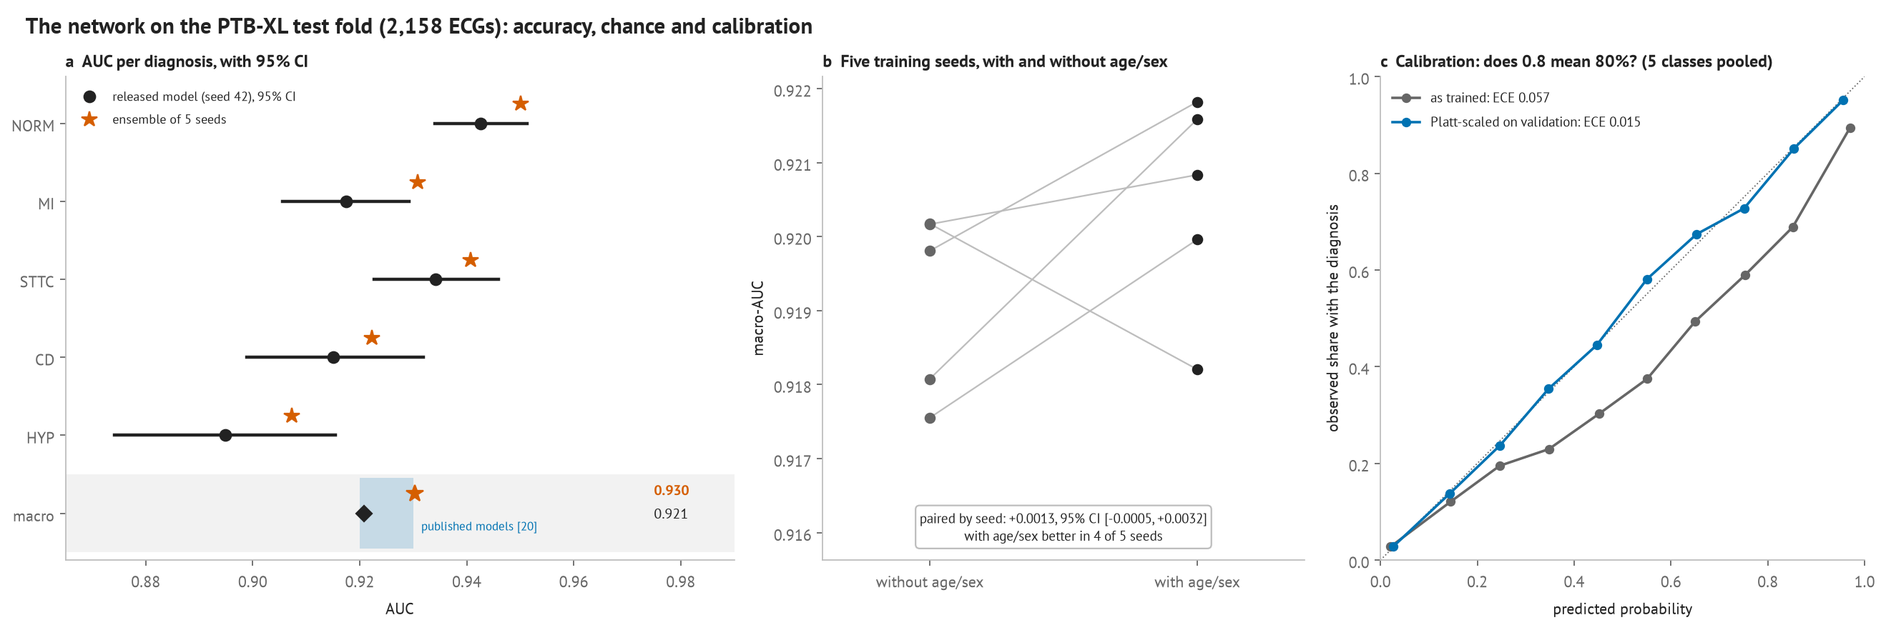
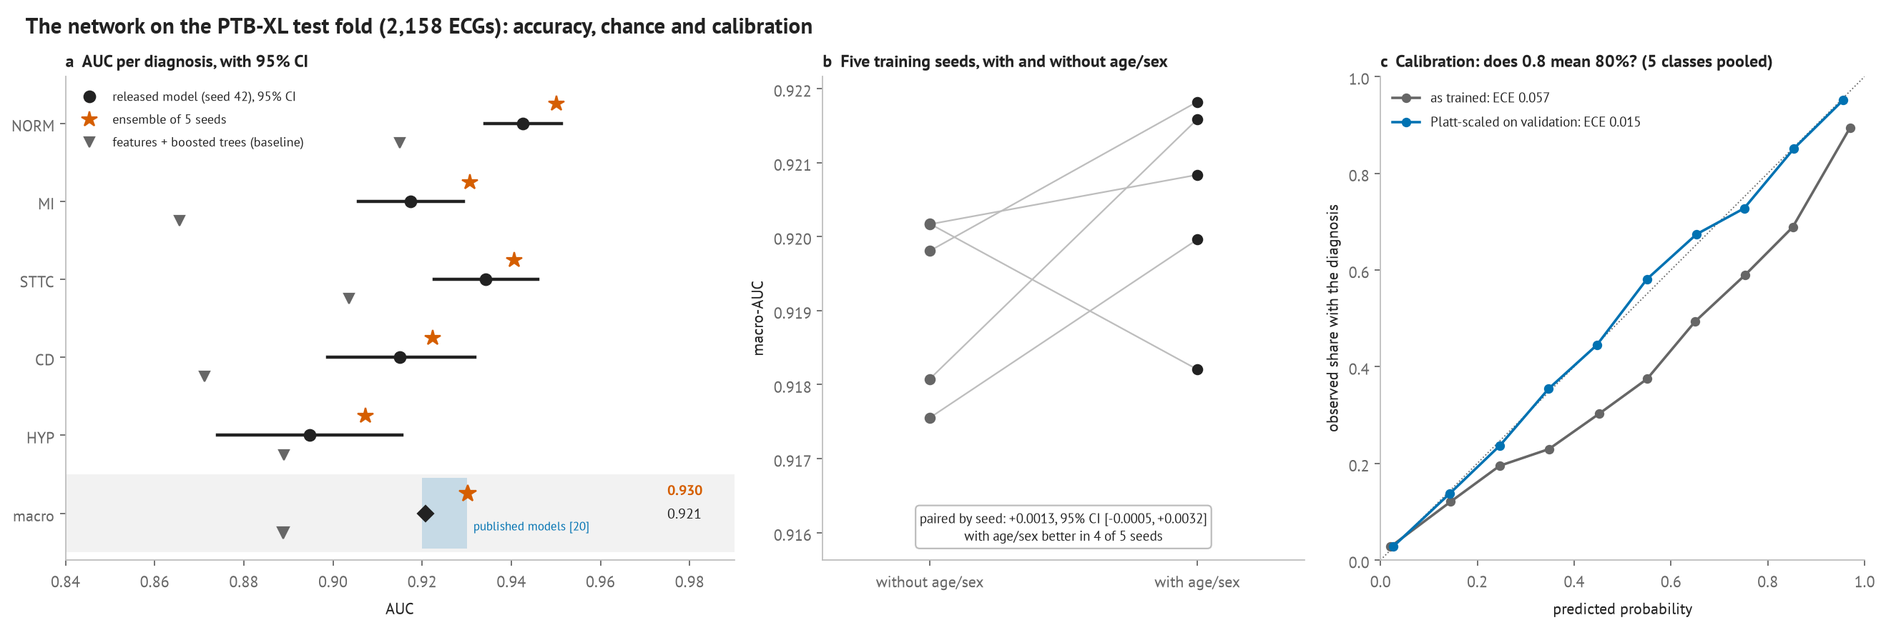
CLAUDE.md, a feature baseline, and a corrected comparison with the literature
- CLAUDE.md: the project's working rules for Claude Code (mission, how to
  reason, data protocols that must not be broken, the real structure,
  commands, repository rules), adapted from the author's draft.
- scripts/baseline_ptbxl.py: 209 hand-made features + logistic
  regression (0.869) and gradient-boosted trees (0.889) on the same
  split, tuned on validation, test scored once. The network beats the
  stronger baseline by +0.032 [+0.026, +0.039]; shown in figure 11.
- Checked against Table II of Strodthoff et al. (2021): their best single
  model reaches 0.930 on the superclass task and their ensemble 0.934, so
  our ensemble (0.930) equals the best single model and is below their
  ensemble; "top of the published range" was an overstatement.
- Colour names in the text match the journal-style figures.

diff --git a/scripts/baseline_ptbxl.py b/scripts/baseline_ptbxl.py
@@ -1,0 +1,156 @@
+#!/usr/bin/env python3
+"""A simple baseline for the PTB-XL task: does the deep network earn its complexity?
+
+Hand-made features of every 12-lead ECG (100 Hz, 10 s) plus age and sex, then two classical
+models, one per diagnostic class:
+  * logistic regression on standardised features (L2 penalty);
+  * gradient-boosted trees (scikit-learn HistGradientBoostingClassifier).
+
+Features per lead (12 x 17): mean, standard deviation, minimum, maximum, the 5th, 25th, 50th,
+75th and 95th percentiles, skewness, kurtosis, mean absolute first difference, rate of
+zero crossings of the mean-removed signal, and the share of power in 0.5-4, 4-8, 8-15 and
+15-40 Hz.  Per ECG: heart rate and R-R variability from the R-peak detector on lead II, and
+age, sex and the age-missing flag.  209 features in all.
+
+Protocol, as for the network: folds 1-8 fit the models, fold 9 chooses the hyper-parameters
+(each class separately, by validation AUC), fold 10 is scored once.  The test macro-AUC is
+compared with the released network on the same ECGs by a paired bootstrap.
+
+Output: docs/results/ptbxl_baseline.json.
+
+    python scripts/baseline_ptbxl.py [--data data/ptb-xl]
+"""
+from __future__ import annotations
+
+import argparse
+import json
+import sys
+import time
+from pathlib import Path
+
+import numpy as np
+from scipy import stats
+from scipy.signal import welch
+from sklearn.ensemble import HistGradientBoostingClassifier
+from sklearn.linear_model import LogisticRegression
+from sklearn.metrics import roc_auc_score
+from sklearn.pipeline import make_pipeline
+from sklearn.preprocessing import StandardScaler
+
+ROOT = Path(__file__).resolve().parents[1]
+sys.path.insert(0, str(ROOT))
+import train_ptbxl as T  # noqa: E402
+from cardioonco.preprocess import detect_r_peaks  # noqa: E402
+
+FS = 100.0
+BANDS = ((0.5, 4), (4, 8), (8, 15), (15, 40))
+
+
+def lead_features(x: np.ndarray) -> list[float]:
+    f, p = welch(x, FS, nperseg=256)
+    total = p[(f >= 0.5) & (f <= 40)].sum() + 1e-12
+    xc = x - x.mean()
+    return ([x.mean(), x.std(), x.min(), x.max()] + list(np.percentile(x, [5, 25, 50, 75, 95]))
+            + [float(stats.skew(x)), float(stats.kurtosis(x)), float(np.abs(np.diff(x)).mean()),
+               float(np.mean(np.diff(np.sign(xc)) != 0))]
+            + [p[(f >= lo) & (f < hi)].sum() / total for lo, hi in BANDS])
+
+
+def ecg_features(ecg: np.ndarray) -> list[float]:
+    feats = [v for lead in ecg for v in lead_features(lead.astype(float))]
+    r = detect_r_peaks(ecg[1].astype(float), FS)               # lead II
+    rr = np.diff(r) / FS
+    hr = 60.0 / np.median(rr) if len(rr) >= 2 else np.nan
+    return feats + [hr, float(np.std(rr)) if len(rr) >= 3 else np.nan]
+
+
+def build_features(X: np.ndarray, M: np.ndarray, cache: Path) -> np.ndarray:
+    if cache.exists():
+        F = np.load(cache)
+        if F.shape[0] == len(X):
+            return F
+    t0, rows = time.time(), []
+    for i, ecg in enumerate(X):
+        rows.append(ecg_features(ecg))
+        if i % 4000 == 0:
+            print(f"  features {i:>6}/{len(X)} ({time.time() - t0:.0f} s)", flush=True)
+    F = np.column_stack([np.asarray(rows, dtype=np.float32), M]).astype(np.float32)
+    F[~np.isfinite(F)] = np.nan
+    np.save(cache, F)
+    return F
+
+
+def fit_best(make, grid, Xtr, ytr, Xva, yva):
+    best = None
+    for params in grid:
+        model = make(**params).fit(Xtr, ytr)
+        auc = roc_auc_score(yva, model.predict_proba(Xva)[:, 1])
+        if best is None or auc > best[0]:
+            best = (auc, params, model)
+    return best
+
+
+def macro(y, p):
+    return float(np.mean([roc_auc_score(y[:, j], p[:, j]) for j in range(y.shape[1])]))
+
+
+def paired_ci(y, pa, pb, n=2000, seed=0):
+    rng, d = np.random.default_rng(seed), []
+    for _ in range(n):
+        i = rng.integers(0, len(y), len(y))
+        if (y[i].min(axis=0) == 1).any() or (y[i].max(axis=0) == 0).any():
+            continue
+        d.append(macro(y[i], pa[i]) - macro(y[i], pb[i]))
+    return [float(np.percentile(d, 2.5)), float(np.percentile(d, 97.5))]
+
+
+def main(argv=None):
+    ap = argparse.ArgumentParser(description=__doc__, formatter_class=argparse.RawDescriptionHelpFormatter)
+    ap.add_argument("--data", default=str(ROOT / "data" / "ptb-xl"))
+    args = ap.parse_args(argv)
+    root = Path(args.data)
+    db = T.load_labels(root)
+    X = T.load_signals(root, db, root / "cache_100hz.npy")
+    M = T.metadata(db)
+    Y = db[T.CLASSES].values
+    fold = db["strat_fold"].values
+    tr, va, te = fold <= 8, fold == 9, fold == 10
+    F = build_features(X, M, root / "features_baseline_v1.npy")
+    print(f"{F.shape[1]} features for {F.shape[0]} ECGs")
+    imputer_median = np.nanmedian(F[tr], axis=0)                  # training-fold medians only
+    F = np.where(np.isnan(F), imputer_median, F)
+
+    models = {
+        "logistic": (lambda C: make_pipeline(StandardScaler(), LogisticRegression(C=C, max_iter=3000)),
+                     [{"C": c} for c in (0.01, 0.1, 1.0, 10.0)]),
+        "boosting": (lambda learning_rate, max_depth: HistGradientBoostingClassifier(
+                         learning_rate=learning_rate, max_depth=max_depth, max_iter=300, random_state=0),
+                     [{"learning_rate": lr, "max_depth": d} for lr in (0.05, 0.1) for d in (3, 6)]),
+    }
+    res = {"n_features": int(F.shape[1]), "n_train": int(tr.sum()), "n_val": int(va.sum()), "n_test": int(te.sum())}
+    probs = {}
+    for name, (make, grid) in models.items():
+        p_te, chosen = np.zeros((te.sum(), len(T.CLASSES))), {}
+        for j, c in enumerate(T.CLASSES):
+            val_auc, params, model = fit_best(make, grid, F[tr], Y[tr, j], F[va], Y[va, j])
+            p_te[:, j] = model.predict_proba(F[te])[:, 1]
+            chosen[c] = {"params": params, "val_auc": float(val_auc), "test_auc": float(roc_auc_score(Y[te, j], p_te[:, j]))}
+        probs[name] = p_te
+        res[name] = {"test_macro_auc": macro(Y[te], p_te), "per_class": chosen}
+        print(f"{name:>9}: test macro-AUC {res[name]['test_macro_auc']:.4f}  "
+              + "  ".join(f"{c} {chosen[c]['test_auc']:.3f}" for c in T.CLASSES), flush=True)
+    net = np.load(ROOT / "docs" / "results" / "ptbxl_test_probabilities.npz")
+    assert (net["y"] == Y[te]).all(), "test fold order differs from the stored network predictions"
+    res["network_macro_auc"] = macro(Y[te], net["p_float"])
+    for name in models:
+        res[name]["network_minus_baseline"] = res["network_macro_auc"] - res[name]["test_macro_auc"]
+        res[name]["network_minus_baseline_ci95"] = paired_ci(Y[te], net["p_float"], probs[name])
+        print(f"network - {name}: {res[name]['network_minus_baseline']:+.4f} {res[name]['network_minus_baseline_ci95']}")
+    out = ROOT / "docs" / "results" / "ptbxl_baseline.json"
+    out.write_text(json.dumps(res, indent=2))
+    print(f"-> {out.relative_to(ROOT)}")
+    return res
+
+
+if __name__ == "__main__":
+    main()

diff --git a/scripts/make_figures.py b/scripts/make_figures.py
@@ -164,7 +164,7 @@ L = {
         w="weight value", count="count", err="error, % of the step s", size="MB",
         # 11
         f11_title="The network on the PTB-XL test fold (2,158 ECGs): accuracy, chance and calibration",
-        released="released model (seed 42), 95% CI", ensemble5="ensemble of 5 seeds", macro_auc="macro-AUC",
+        released="released model (seed 42), 95% CI", baseline="features + boosted trees (baseline)", ensemble5="ensemble of 5 seeds", macro_auc="macro-AUC",
         b11s="b  Five training seeds, with and without age/sex",
         effect_note="paired by seed: {d}, 95% CI [{lo}, {hi}]\nwith age/sex better in {k} of 5 seeds",
         c11="c  Calibration: does 0.8 mean 80%? (5 classes pooled)", raw_cal="as trained", platt_cal="Platt-scaled on validation",
@@ -247,7 +247,7 @@ L = {
         zoom9="увеличено: x → x'", b9="b  Ошибка квантования", c9="c  Размер модели",
         w="значение веса", count="количество", err="ошибка, % от шага s", size="МБ",
         f11_title="Сеть на тестовом фолде PTB-XL (2158 ЭКГ): точность, случайность и калибровка",
-        released="опубликованная модель (seed 42), 95 % ДИ", ensemble5="ансамбль из 5 seed", macro_auc="macro-AUC",
+        released="опубликованная модель (seed 42), 95 % ДИ", baseline="признаки + бустинг деревьев (ориентир)", ensemble5="ансамбль из 5 seed", macro_auc="macro-AUC",
         b11s="b  Пять запусков обучения: с возрастом и полом и без",
         effect_note="парно по seed: {d}, 95 % ДИ [{lo}; {hi}]\nс возрастом и полом лучше в {k} из 5 запусков",
         c11="c  Калибровка: значит ли 0,8 «80 %»? (5 классов вместе)", raw_cal="как обучена", platt_cal="после Платта на валидации",
@@ -926,6 +926,7 @@ def fig11(lang, out, run=RELEASED):
     res = ROOT / "docs" / "results"
     m = json.loads((run / "metrics.json").read_text())
     sd = json.loads((res / "ptbxl_seeds.json").read_text())
+    bl = json.loads((res / "ptbxl_baseline.json").read_text())["boosting"]
     ev = json.loads((res / "ptbxl_evaluation.json").read_text())["calibration"]
     pr = np.load(res / "ptbxl_test_probabilities.npz")
     cls = ["NORM", "MI", "STTC", "CD", "HYP"]
@@ -939,14 +940,16 @@ def fig11(lang, out, run=RELEASED):
         a.plot(v["auc_ci95"], [yi, yi], color=INK, lw=2)
         a.plot(v["auc"], yi, "o", color=INK, ms=7, label=T["released"] if k == 0 else None)
         a.plot(sd["ensemble"]["per_class"][c], yi + 0.25, "*", color=RED, ms=10, label=T["ensemble5"] if k == 0 else None)
+        a.plot(bl["per_class"][c]["test_auc"], yi - 0.25, "v", color=MUTED, ms=6, label=T["baseline"] if k == 0 else None)
     a.axhspan(-0.5, 0.5, color=GRID_MIN, lw=0)
     a.fill_betweenx([-0.45, 0.45], 0.92, 0.93, color=BLUE, alpha=0.18, lw=0)
     a.text(0.9315, -0.22, T["published"].replace("\n", " "), color=BLUE, fontsize=7.5)
     a.plot(m["test_macro_auc"], 0, "D", color=INK, ms=7)
     a.plot(sd["ensemble"]["macro_auc"], 0.25, "*", color=RED, ms=11)
+    a.plot(bl["test_macro_auc"], -0.25, "v", color=MUTED, ms=7)
     a.text(0.975, 0, num(m["test_macro_auc"]), va="center", fontsize=9)
     a.text(0.975, 0.3, num(sd["ensemble"]["macro_auc"]), va="center", fontsize=9, color=RED, fontweight="bold")
-    a.set(yticks=list(y) + [0], yticklabels=cls + [T["macro"]], xlim=(0.865, 0.99), ylim=(-0.6, 5.6),
+    a.set(yticks=list(y) + [0], yticklabels=cls + [T["macro"]], xlim=(0.84, 0.99), ylim=(-0.6, 5.6),
           xlabel=T["auc"], title=T["a11"])
     a.legend(loc="upper left", fontsize=8)
     # b: five seeds, with and without age/sex, paired

diff --git a/CLAUDE.md b/CLAUDE.md
@@ -1,0 +1,61 @@
+# CardioOncoPredict
+
+## Миссия
+Исследовательская программа: измерить микровольтную альтернацию зубца T (TWA) в ЭКГ и проверить, служит ли она ранним признаком кардиотоксичности антрациклинов. Нейросеть пока обучена только на задаче-заменителе (PTB-XL, пять общих диагнозов). Дальняя цель — мультимодальная оценка риска (ЭКГ + эхо/GLS/LVEF + анализы + терапия). Не медицинское изделие: никаких диагнозов, советов по лечению и слов «спасает жизни».
+
+## Как рассуждать
+- Первые принципы и мысленный эксперимент до кода; если не объясняется просто — значит, не понято (Эйнштейн, Фейнман).
+- Точная модель с явными допущениями: что вход, что выход, что шум, сколько информации реально в сигнале (Ньютон, фон Нейман, Шеннон).
+- Не объявлять результат верным, пока он не проверен; каждое утверждение — либо измерено (с тестом или рисунком), либо помечено «гипотеза» (Перельман).
+- Искать способ опровергнуть свою модель: абляция, внешние данные, контрпримеры, отложенная выборка (Поппер).
+- Интервалы неопределённости вместо одного числа: бутстрэп, несколько seed (Байес).
+- Простота и минимум: убирать лишнее из кода и интерфейса; сначала самое простое рабочее решение (Джобс, Возняк, Маск).
+- Всё воспроизводимо одной командой: данные → обучение → отчёт (Форд). Сначала описать готовый результат для врача, потом строить (Безос). Маленькие шаги и проверка каждого (Цукерберг).
+- Силы — на главную метрику и главный риск; осторожность с клиническими утверждениями (Наполеон, Кутузов).
+- Прочно, полезно, красиво (Витрувий). Определять термины до использования и знать границы знания (Кант, Декарт, Гёдель).
+- Не уверен в факте, ссылке, метрике или определении — так и сказать и проверить по первоисточнику (PubMed, Crossref, документация). Ничего не выдумывать.
+
+## Медицинский домен
+- CTRCD определяют по LVEF, GLS и биомаркерам; пороги брать из ESC 2022 (Lyon et al., README ссылка 3) и сверять с текстом.
+- Факторы риска: антрациклины (доза), трастузумаб, ингибиторы контрольных точек, лучевая терапия, возраст, пол, гипертония, диабет, ИБС, исходная ФВ, удлинение QT, тропонин, NT-proBNP.
+- Крайние случаи: пропуски, артефакты, разные частоты и приборы, дети и пожилые, сочетания препаратов, дисбаланс классов, смещение по полу, возрасту и этносу.
+- Риск меняется во время лечения: сравнивать ЭКГ пациента с его исходной (каждый сам себе контроль); для времени до события — survival-модели.
+- Корреляция — не причинность; без причинного анализа причинных выводов нет.
+
+## Данные и протоколы, которые нельзя нарушать
+- PTB-XL: деление по пациентам, strat_fold 1–8 обучение, 9 валидация, 10 тест. Подбор чего угодно — только на валидации; тест — только для итоговой оценки.
+- Конкурс PhysioNet 2008 по TWA: половина реальных записей «real-test» уже использована для v0.6; разработка — только на синтетических и «real-dev» (`scripts/validate_twadb.py --only ...`).
+- Детектор R-пиков проверяется на MIT-BIH и SVDB (`scripts/validate_rpeaks.py`); обе базы уже видели при выборе метода.
+- Для кардиотоксичности нужны данные пациентов на терапии — только через клинического партнёра, с одобрением этического комитета и деидентификацией. Других источников (MIMIC-IV-ECG, CODE-15%, Chapman–Shaoxing, Challenge 2021) — проверять условия доступа и лицензии до загрузки.
+
+## Структура (реальная)
+- `cardioonco/` — библиотека: `synth`, `preprocess` (фильтры, R-пики по Elgendi), `twa` (спектральный метод, MMA, три исхода), `model` (CardioOncoNet), `fhir`.
+- `assets/js/dsp.js` — та же математика для сайта; совпадение с Python проверяется тестами.
+- `train_ptbxl.py`, `predict.py`, `app.py`; `scripts/` — загрузка данных, проверки, рисунки; `models/ptbxl-1.0/` — опубликованные веса (5 seed) и карточка модели; `docs/results/` — таблицы результатов; `docs/figures/{en,ru}/` — рисунки; `tests/`.
+- Предложенную структуру `src/…` не вводить: пути библиотеки архивированы в Zenodo по версиям, а пакет уже покрыт тестами.
+
+## Стек
+- Сейчас: numpy, scipy, pandas, scikit-learn, torch, onnx/onnxruntime, wfdb, neurokit2 (для сравнения), matplotlib, pytest, Node (тесты JS).
+- Добавлять только когда появится задача: scikit-survival и lifelines (время до события), shap, pymc, mlflow и dvc (когда экспериментов станет много), xgboost или lightgbm (если HistGradientBoosting из scikit-learn не хватит).
+
+## Команды
+- Тесты: `CI=1 PATH=$PWD/.venv/lib/python3.14/site-packages/playwright/driver:$PATH .venv/bin/python -m pytest -q`.
+- Рисунки: `.venv/bin/python scripts/make_figures.py` (журнальный стиль, оба языка).
+- Перед `git push` срабатывает хук `scripts/pre-push`: тесты на чистой копии отправляемого коммита.
+- Выпуск: `gh release create vX.Y.Z --target <полный SHA>` → Zenodo выдаёт DOI → вписать в `CITATION.cff` и оба ROADMAP.
+
+## Правила репозитория
+- README и сайт — на двух языках (README.md / README.ru.md, index.html / ru.html), меняются вместе.
+- Каждый рисунок строится кодом; каждое число в README — из теста, скрипта или таблицы в `docs/results/`.
+- Формулы для GitHub: строчные `$`…`$`, выносные — блок ```math, внутри списков — `$$…$$`; без `\operatorname`.
+- `.mcp.json` не коммитить. git config не менять.
+
+## Метрики и отчётность
+- AUROC, AUPRC, чувствительность и специфичность при пороге с валидации, калибровка (Brier, ECE, кривая), бутстрэп-интервалы, несколько seed.
+- Подгруппы, объяснимость (интегрированные градиенты, SHAP), внешняя валидация.
+- Для будущей клинической части — чек-листы TRIPOD+AI и оценка риска смещения PROBAST. В каждом отчёте — раздел «Ограничения».
+
+## Как работать с Петей
+- Отвечать по-русски: сначала результат, потом пояснение; перед крупными изменениями — короткий план.
+- Объяснять с нуля: откуда формула, что значит каждая буква, на маленьком примере.
+- Подтверждений не спрашивать; спрашивать (кнопками) только про дизайн и новые технологии, объясняя их простыми словами.

diff --git a/README.md b/README.md
@@ -52,7 +52,7 @@
 | Does the R-peak detector find real heartbeats? | MIT-BIH Arrhythmia Database: 99.73% of annotated beats found, 99.92% of detections correct; 99.50% / 99.93% on a second database at 128 Hz | ✅ | [§4.3](#43-r-peak-detection) |
 | Do the browser and Python versions agree? | The same outcome and reason on every test signal; V_alt within 10% | ✅ | [§7](#7-what-has-been-verified-so-far) |
 | Does it agree with the PhysioNet 2008 TWA challenge? | Kendall τ = 0.43 over 100 recordings (the organisers' significance line is 0.436); 0.48 on the synthetic ones, 0.08 on held-out real ones | ⚠ synthetic only | [§7.1](#71-check-against-the-physionet-twa-challenge) |
-| Does the neural network work on real clinical ECGs? | PTB-XL test macro-AUC 0.9205 ± 0.0015 over five training seeds; their ensemble 0.930, at the top of the published 0.92–0.93 | ✅ proxy task | [§5.4](#54-data-ptb-xl) |
+| Does the neural network work on real clinical ECGs? | PTB-XL test macro-AUC 0.9205 ± 0.0015 over five training seeds; their ensemble 0.930, as good as the best published single model (0.930) and below the published ensemble (0.934) | ✅ proxy task | [§5.4](#54-data-ptb-xl) |
 | Does adding age and sex to the network help? | +0.0013 AUC, 95% CI [−0.0005, +0.0032], paired over five seeds | ❌ no measurable gain | [§5.4](#54-data-ptb-xl) |
 | Is TWA an early sign of anthracycline cardiotoxicity? | Not studied yet: it needs ECGs of patients before and during treatment | open | [§11](#11-limitations-and-ethics) |
 
@@ -322,7 +322,7 @@ V_{alt} = \sqrt{P(0.5) - \mu_B},\qquad K = \frac{P(0.5) - \mu_B}{\sigma_B}
 
 The conventional criterion for significant alternans is $`V_{alt} \ge 1.9\,\mu V`$ **and** $`K \ge 3`$ [11, 14]. In this implementation $`V_{alt}`$ is the RMS alternans over the whole ST-T window. We also report `v_alt_peak_uv`, the alternans amplitude at the single most alternating sample; on synthetic data it recovers the injected amplitude within 15%.
 
-In the figure at the top of this README: (a) the 128×L beat matrix minus the mean beat, where alternans appears as a red/blue checkerboard inside the ST-T window; (b) even and odd average beats; (c) one ST-T sample flipping up and down beat after beat; (d) the aggregate spectrum with a sharp peak at 0.5 cycles/beat far above the noise band. The bright stripes at the QRS in panel (a) are not alternans: at 500 Hz each R peak falls up to half a sample off the sampling grid, and on the steep QRS that is tens of microvolts. They are random from beat to beat, so they do not build up at 0.5 cycles/beat, and the ST-T window excludes the QRS anyway.
+In the figure at the top of this README: (a) the 128×L beat matrix minus the mean beat, where alternans appears as an orange and blue checkerboard inside the ST-T window; (b) even and odd average beats; (c) one ST-T sample flipping up and down beat after beat; (d) the aggregate spectrum with a sharp peak at 0.5 cycles/beat far above the noise band. The bright stripes at the QRS in panel (a) are not alternans: at 500 Hz each R peak falls up to half a sample off the sampling grid, and on the steep QRS that is tens of microvolts. They are random from beat to beat, so they do not build up at 0.5 cycles/beat, and the ST-T window excludes the QRS anyway.
 
 **Step 6: the whole recording and the decision.** A longer recording is scanned in 128-beat windows every 16 beats. In each window, beats whose R-R interval is more than 20% off the neighbouring intervals, or whose shape correlates below 0.9 with the median beat, are replaced by the median of the beats of the same parity, so the ABAB order survives an ectopic beat [28]; a window with more than 10% such beats is not used. The result follows the clinical rules [11]: *alternans criterion met* if some window has $`V_{alt} \ge 1.9\,\mu V`$ and $`K \ge 3`$ at a heart rate of at most 110 bpm with noise of at most 1.8 µV; *no significant alternans* if no window is significant and at least one clean window reaches 105 bpm; otherwise *indeterminate*, with the reason. The clinical rule asks for alternans sustained for at least a minute; a single 128-beat window, which lasts over a minute below 110 bpm, stands in for that.
 
@@ -453,9 +453,11 @@ PTB-XL [12] contains **21,799** clinical 12-lead, 10-second ECGs from **18,869**
 
 The ROC curves themselves are in [`models/ptbxl-1.0/roc_test.png`](models/ptbxl-1.0/roc_test.png). So a single model reaches the published level: it is correct, but not better than existing models.
 
+**Does the network earn its complexity? A simple baseline.** The same split was given to two classical models on 209 hand-made features: 17 statistics and band powers per lead, heart rate and R-R variability, age and sex (`scripts/baseline_ptbxl.py`; hyper-parameters chosen on the validation fold, the test fold scored once). Logistic regression reached a macro-AUC of 0.869 and gradient-boosted trees 0.889, close to the published feature baseline (0.874 [20]). The network is better than the stronger baseline by **+0.032, 95% CI [+0.026, +0.039]** (paired bootstrap; grey triangles in panel **a**), so the deep model is not decoration.
+
 **How much of this is luck? Five seeds.** The same configuration was trained with four more random seeds, and every model scored the same test ECGs (`scripts/compare_seeds.py`). Macro-AUC was 0.9205 ± 0.0015 (SD; range 0.9182–0.9218), so the third decimal of any single run is partly chance.
 
-**An ensemble of the five is clearly better.** Averaging the five models' probabilities (a deep ensemble [39]) gives a macro-AUC of **0.930**, **+0.0098 over a single model, 95% CI [+0.0090, +0.0105]** (paired bootstrap over test ECGs), at the top of the published range; per class NORM 0.950, MI 0.931, STTC 0.941, CD 0.922, HYP 0.907. The five members also disagree more on some ECGs than on others (median SD of their probabilities 0.04, 95th percentile 0.20), which is a usable measure of uncertainty. `predict.py --ensemble` runs all five.
+**An ensemble of the five is clearly better.** Averaging the five models' probabilities (a deep ensemble [39]) gives a macro-AUC of **0.930**, **+0.0098 over a single model, 95% CI [+0.0090, +0.0105]** (paired bootstrap over test ECGs). That equals the best published single model on this task (0.930) and stays below the published ensemble of six architectures (0.934) [20]; per class NORM 0.950, MI 0.931, STTC 0.941, CD 0.922, HYP 0.907. The five members also disagree more on some ECGs than on others (median SD of their probabilities 0.04, 95th percentile 0.20), which is a usable measure of uncertainty. `predict.py --ensemble` runs all five.
 
 **Calibration: does 0.8 mean 80%?** Not as trained. The loss weights rare classes up, which pushes probabilities up: the expected calibration error (ECE) is 0.043–0.064 per class (panel **c**). Platt scaling [40], fitted on the validation fold only, lowers it to 0.011–0.018 without changing the ranking (AUC), a known and fixable property of modern networks [41].
 
@@ -516,6 +518,7 @@ FHIR is the format hospital systems use to exchange results, so the tool can exp
 | Training pipeline runs end to end; the exported ONNX model gives the same outputs as PyTorch in ONNX Runtime | `tests/test_train_smoke.py` | ✅ |
 | The synthetic 12-lead model obeys Einthoven's law (by construction; an arithmetic check) | Figure 3c (residual ≈ 10⁻¹⁶ mV) | ✅ |
 | Network accuracy on real ECGs: test macro-AUC 0.921, at the published level of 0.92–0.93 [20] | `models/ptbxl-1.0/metrics.json`, [§5.4](#54-data-ptb-xl) | ✅ |
+| The network beats a simple baseline (features + boosted trees, 0.889) by +0.032 [+0.026, +0.039] | `docs/results/ptbxl_baseline.json` | ✅ |
 | The result is not luck of one run: five seeds give 0.9205 ± 0.0015 | `docs/results/ptbxl_seeds.json` | ✅ |
 | An ensemble of five models is better than one: +0.0098 [+0.0090, +0.0105] | `docs/results/ptbxl_seeds.json`, `predict.py --ensemble` | ✅ |
 | Probabilities are calibrated | ECE 0.043–0.064 as trained, 0.011–0.018 after Platt scaling on validation | ⚠ needs recalibration |
@@ -595,6 +598,7 @@ scripts/
   compare_seeds.py     five seeds with and without age/sex, and their ensemble (§5.4)
   evaluate_ptbxl_model.py INT8, calibration and integrated gradients on the test fold (§5.4, §6.1)
   train_seeds.sh       train four more seeds of each configuration
+  baseline_ptbxl.py    hand-made features + logistic regression and boosted trees (§5.4)
   wfdb_to_csv.py       convert one lead of a PhysioNet WFDB record to CSV for the web tool
   make_figures.py      regenerate every figure in docs/figures/{en,ru}
   validate_twadb.py    score the pipeline on the PhysioNet TWA challenge (§7.1)
@@ -647,6 +651,7 @@ python train_ptbxl.py --data data/ptb-xl --epochs 30 --no-meta --out runs/ptbxl_
 python scripts/compare_ptbxl_runs.py runs/ptbxl runs/ptbxl_nometa                    # paired comparison
 bash scripts/train_seeds.sh && python scripts/compare_seeds.py   # four more seeds of each, and the ensemble
 python scripts/evaluate_ptbxl_model.py                           # INT8, calibration, attributions
+python scripts/baseline_ptbxl.py                                 # simple baseline on hand-made features
 python scripts/make_figures.py --only 08 09 --checkpoint runs/ptbxl/model.pt   # figures 08-09 with your weights
 ```
 
